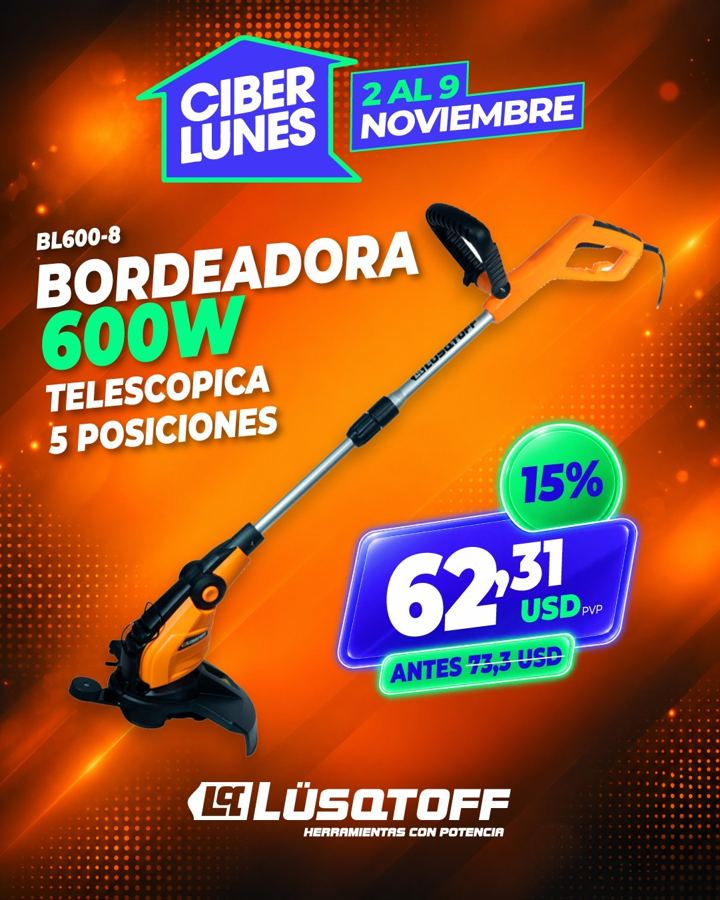
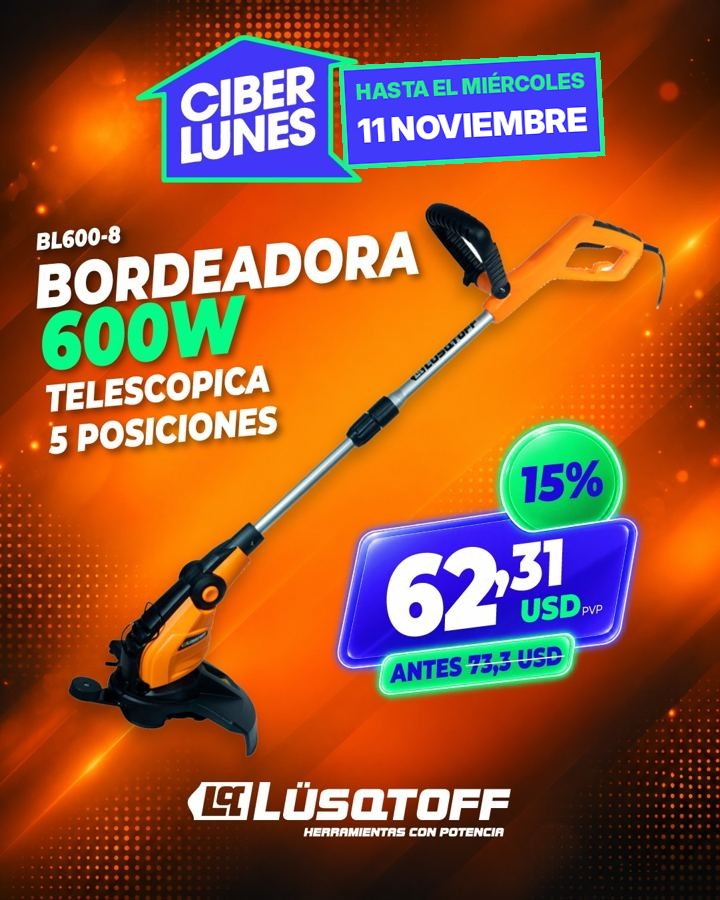
Martín Color: Renner promo first, top marquee, Cyber extended to 11/11
- Cyber INGCO y Lüsqtoff extended to Wednesday 11/11: section notice,
  price note, video caption, end-of-sale check (now 2026-11-12 -03:00)
  and the date badge printed on the 27 Lüsqtoff flyers.
- Red/black/white scrolling marquee at the top with four phrases.
- Hero now leads with the Renner promo (same products, prices and
  dates) and a large 'Consultá por WhatsApp' button; the 'Te
  asesoramos antes de venderte' block moves to the next section and
  the Cyber stays further down.
- Mobile: smaller logo, button within the first screen.

Claude-Session: https://claude.ai/code/session_01VkEHAkGzLkxmQojEp4HyZT

Changed region(s): [[0.4583, 0.0311, 0.8556, 0.1867]]

diff --git a/index.html b/index.html
@@ -256,8 +256,40 @@ footer.band{padding-block:56px 40px}
 .ft-all{grid-column:1/-1;justify-self:center;padding:13px 22px;font-size:14px}
 .ft-none{color:var(--tinta-suave)}
 @media (max-width:860px){.ft-grid{grid-template-columns:1fr}}
+
+/* Cinta corrida */
+.cinta-mc{background:var(--rojo);border-bottom:3px solid var(--negro);overflow:hidden;padding:12px 0}
+.cinta-in{display:flex;width:max-content;animation:mc-correr 40s linear infinite}
+.cinta-mc:hover .cinta-in{animation-play-state:paused}
+.cinta-mc span{display:inline-flex;align-items:center;gap:1.1em;padding-right:1.1em;font:700 clamp(14px,1.6vw,17px)/1.2 var(--f-texto);letter-spacing:.08em;color:#fff;white-space:nowrap}
+.cinta-mc i{display:inline-grid;place-items:center;width:26px;height:26px;border-radius:50%;background:var(--negro);color:#fff;flex:none}
+.cinta-mc i svg{width:14px;height:14px}
+@keyframes mc-correr{to{transform:translateX(-50%)}}
+@media (prefers-reduced-motion:reduce){.cinta-in{animation:none;flex-wrap:wrap;width:auto;justify-content:center;row-gap:8px}}
+
+/* Promo Renner en el encabezado */
+.hero-marca{margin-top:clamp(16px,2.5vw,28px);position:relative}
+#inicio{padding-top:clamp(20px,3vw,36px)}
+.hero-marca .hero-logo{margin-bottom:0}
+.hero-marca svg{width:min(100%,340px)}
+.promo{margin-top:clamp(20px,2.5vw,28px);align-items:start}
+.hero .vigencia{background:var(--banda-sup);border-color:var(--banda-linea);color:var(--banda-tinta)}
+.hero .vigencia i{background:var(--rojo)}
+.hero .pct div{background:var(--banda-sup);border:1px solid var(--banda-linea)}
+.btn-xl{margin-top:24px;padding:20px 30px;font-size:19px;border-radius:14px;box-shadow:0 10px 28px -10px rgba(14,122,109,.8)}
+.btn-xl svg{width:26px;height:26px}
+.promo-precios{background:var(--banda-sup);border:1px solid var(--banda-linea);border-radius:var(--r-l);padding:clamp(18px,3vw,28px);min-width:0}
+.hero .precios caption,.hero .precios small,.hero .nota{color:var(--banda-suave)}
+.hero .precios td{border-bottom-color:var(--banda-linea)}
+.pr-dest{color:var(--rojo);font-size:19px}
+.ases{display:grid;grid-template-columns:1.1fr .9fr;gap:clamp(28px,5vw,56px);align-items:center}
+.ases h2 em{font-style:normal;color:var(--accion)}
+.local-card{color:var(--banda-tinta)}
+@media (max-width:860px){.ases{grid-template-columns:1fr}}
+@media (max-width:560px){.hero{padding-top:20px}.hero-top{display:none}.hero-marca{margin-top:4px}.hero-marca svg{width:62%}.hero-marca .hero-logo{margin-bottom:8px}.btn-xl{width:100%;justify-content:center;padding:18px 20px;font-size:18px}}
 </style>
 
+<div class="cinta-mc" role="marquee" aria-label="Aprovechá hasta 40% de descuento en pinturas Renner · No te quedes con la duda: consultá · Te asesoramos antes de venderte · Cyber INGCO y Lüsqtoff: últimos días, hasta el miércoles 11/11"><div class="cinta-in" aria-hidden="true"><span>APROVECHÁ HASTA 40% DE DESCUENTO EN PINTURAS RENNER<i><svg viewBox="0 0 24 24" aria-hidden="true"><path fill="currentColor" d="M12 2.5s7 7.3 7 12.5a7 7 0 0 1-14 0c0-5.2 7-12.5 7-12.5z"/></svg></i></span><span>NO TE QUEDES CON LA DUDA: CONSULTÁ<i><svg viewBox="0 0 24 24" aria-hidden="true"><path fill="currentColor" d="M12 2.5s7 7.3 7 12.5a7 7 0 0 1-14 0c0-5.2 7-12.5 7-12.5z"/></svg></i></span><span>TE ASESORAMOS ANTES DE VENDERTE<i><svg viewBox="0 0 24 24" aria-hidden="true"><path fill="currentColor" d="M12 2.5s7 7.3 7 12.5a7 7 0 0 1-14 0c0-5.2 7-12.5 7-12.5z"/></svg></i></span><span>CYBER INGCO Y LÜSQTOFF: ÚLTIMOS DÍAS, HASTA EL MIÉRCOLES 11/11<i><svg viewBox="0 0 24 24" aria-hidden="true"><path fill="currentColor" d="M12 2.5s7 7.3 7 12.5a7 7 0 0 1-14 0c0-5.2 7-12.5 7-12.5z"/></svg></i></span><span>APROVECHÁ HASTA 40% DE DESCUENTO EN PINTURAS RENNER<i><svg viewBox="0 0 24 24" aria-hidden="true"><path fill="currentColor" d="M12 2.5s7 7.3 7 12.5a7 7 0 0 1-14 0c0-5.2 7-12.5 7-12.5z"/></svg></i></span><span>NO TE QUEDES CON LA DUDA: CONSULTÁ<i><svg viewBox="0 0 24 24" aria-hidden="true"><path fill="currentColor" d="M12 2.5s7 7.3 7 12.5a7 7 0 0 1-14 0c0-5.2 7-12.5 7-12.5z"/></svg></i></span><span>TE ASESORAMOS ANTES DE VENDERTE<i><svg viewBox="0 0 24 24" aria-hidden="true"><path fill="currentColor" d="M12 2.5s7 7.3 7 12.5a7 7 0 0 1-14 0c0-5.2 7-12.5 7-12.5z"/></svg></i></span><span>CYBER INGCO Y LÜSQTOFF: ÚLTIMOS DÍAS, HASTA EL MIÉRCOLES 11/11<i><svg viewBox="0 0 24 24" aria-hidden="true"><path fill="currentColor" d="M12 2.5s7 7.3 7 12.5a7 7 0 0 1-14 0c0-5.2 7-12.5 7-12.5z"/></svg></i></span></div></div>
 <header class="band hero" id="inicio">
   <div class="tex" aria-hidden="true"></div>
   <div class="wrap">
@@ -273,26 +305,38 @@ footer.band{padding-block:56px 40px}
         <a href="https://www.instagram.com/martincolor.ok/" target="_blank" rel="noopener">Instagram</a>
       </nav>
     </div>
-    <div class="hero-grid">
-      <div class="rv">
+    <div class="hero-marca rv">
         <div class="hero-logo"><svg width="100%" style="display:block;height:auto" xmlns="http://www.w3.org/2000/svg" viewBox="396 196 1212 684" role="img" aria-label="Martín Color"><path fill="#FC2803" d="M 1044.195312 326.113281 L 1070.238281 326.113281 C 1084.621094 326.113281 1096.277344 337.773438 1096.277344 352.15625 L 1096.277344 695.3125 C 1096.277344 709.695312 1084.621094 721.351562 1070.238281 721.351562 L 1050.289062 721.351562 C 1023.621094 721.351562 1001.777344 700.15625 1000.976562 673.5 L 992.113281 378.097656 C 992.113281 349.484375 1015.613281 326.113281 1044.195312 326.113281 M 1096.277344 233.59375 L 1096.277344 285.683594 C 1096.277344 300.066406 1084.621094 311.722656 1070.238281 311.722656 L 995.097656 311.722656 C 989.132812 311.722656 983.761719 315.347656 981.53125 320.882812 L 832.609375 690.46875 C 825.089844 709.132812 806.988281 721.351562 786.871094 721.351562 L 713.4375 721.351562 C 693.183594 721.351562 674.964844 709.050781 667.398438 690.265625 L 650.753906 648.953125 C 643.859375 631.839844 656.457031 613.179688 674.90625 613.179688 L 734.3125 613.179688 C 744.9375 613.179688 754.496094 606.726562 758.46875 596.871094 L 882.304688 289.523438 C 902.671875 238.988281 949.230469 207.554688 1003.714844 207.554688 L 1070.238281 207.554688 C 1084.621094 207.554688 1096.277344 219.210938 1096.277344 233.59375 M 507.972656 404.238281 L 507.972656 672.195312 C 507.972656 699.34375 485.964844 721.351562 458.8125 721.351562 L 452.96875 721.351562 C 425.820312 721.351562 403.808594 699.34375 403.808594 672.195312 L 403.808594 352.15625 C 403.808594 337.773438 415.46875 326.113281 429.851562 326.113281 C 472.816406 326.113281 507.972656 361.269531 507.972656 404.238281 M 669.390625 598.773438 L 648.125 598.773438 C 637.5 598.773438 627.941406 592.320312 623.96875 582.464844 L 521.449219 328.019531 C 517.476562 318.167969 507.917969 311.710938 497.292969 311.710938 L 429.851562 311.710938 C 415.46875 311.710938 403.808594 300.050781 403.808594 285.671875 L 403.808594 256.714844 C 403.808594 229.5625 425.820312 207.554688 452.96875 207.554688 L 496.371094 207.554688 C 550.859375 207.554688 597.425781 238.988281 617.785156 289.519531 L 715.253906 531.425781 C 721.515625 546.953125 721.246094 567.1875 711.894531 581.027344 C 702.476562 594.964844 686.207031 598.78125 669.390625 598.773438 "></path><path fill="#FC2803" d="M 1113.308594 617.183594 L 1515.269531 617.183594 C 1515.777344 617.183594 1516.191406 617.597656 1516.191406 618.105469 L 1516.191406 659.585938 C 1516.191406 693.699219 1488.535156 721.351562 1454.421875 721.351562 L 1049.558594 721.351562 C 1049.050781 721.351562 1048.636719 720.941406 1048.636719 720.429688 L 1048.636719 669.265625 C 1048.636719 640.621094 1077.726562 617.183594 1113.308594 617.183594 M 1515.640625 265.84375 L 1515.640625 310.800781 C 1515.640625 311.308594 1515.199219 311.722656 1514.65625 311.722656 L 993.097656 311.722656 C 992.554688 311.722656 992.113281 311.308594 992.113281 310.800781 L 992.113281 290.53125 C 992.113281 244.894531 1031.894531 207.554688 1080.515625 207.554688 L 1453.539062 207.554688 C 1487.835938 207.554688 1515.640625 233.652344 1515.640625 265.84375 "></path><path fill="#F0E7D8" d="M 511 806.460938 L 519.695312 806.460938 L 519.695312 872.445312 L 504.023438 872.445312 L 502.304688 815.136719 C 502.304688 810.359375 506.226562 806.460938 511 806.460938 M 519.695312 786.664062 L 519.695312 804.054688 L 501.15625 804.054688 L 473.597656 872.445312 L 450.183594 872.445312 L 442.90625 854.386719 L 462.199219 854.386719 L 483.972656 800.351562 C 487.371094 791.914062 495.144531 786.664062 504.242188 786.664062 Z M 421.476562 815.15625 L 421.476562 872.445312 L 404.085938 872.445312 L 404.085938 806.460938 L 412.78125 806.460938 C 417.5625 806.460938 421.476562 810.371094 421.476562 815.15625 M 448.425781 851.980469 L 441.941406 851.980469 L 422.628906 804.054688 L 404.085938 804.054688 L 404.085938 786.664062 L 419.539062 786.664062 C 428.636719 786.664062 436.410156 791.914062 439.808594 800.351562 L 456.082031 840.738281 C 457.128906 843.328125 456.808594 846.046875 455.246094 848.355469 C 453.671875 850.683594 451.234375 851.980469 448.425781 851.980469 "></path><path fill="#F0E7D8" d="M 581.351562 804.722656 L 558.691406 804.722656 L 565.964844 786.664062 L 592.753906 786.664062 L 613.335938 837.753906 L 605.96875 837.753906 C 599 837.753906 593.042969 833.730469 590.4375 827.269531 Z M 627.316406 872.445312 L 608.640625 872.445312 L 602.636719 857.550781 L 558.671875 857.550781 L 562.3125 848.511719 C 562.324219 848.488281 562.332031 848.464844 562.339844 848.4375 C 564.433594 843.328125 569.164062 840.15625 574.683594 840.15625 L 614.304688 840.160156 Z M 571.867188 818.378906 L 550.078125 872.445312 L 531.402344 872.445312 L 557.722656 807.128906 L 564.207031 807.128906 C 567.015625 807.128906 569.457031 808.425781 571.03125 810.753906 C 572.589844 813.066406 572.910156 815.78125 571.867188 818.378906 "></path><path fill="#F0E7D8" d="M 724.921875 872.445312 L 706.246094 872.445312 L 697.96875 851.898438 C 696.925781 849.308594 697.246094 846.589844 698.804688 844.277344 C 700.378906 841.953125 702.820312 840.652344 705.628906 840.652344 L 712.113281 840.652344 Z M 656.261719 815.15625 L 656.261719 872.445312 L 638.871094 872.445312 L 638.871094 806.460938 L 647.566406 806.460938 C 652.347656 806.460938 656.257812 810.371094 656.261719 815.15625 M 707.261719 820.859375 L 707.261719 804.058594 L 638.871094 804.058594 L 638.871094 786.664062 L 710.949219 786.664062 C 718.476562 786.664062 724.652344 792.839844 724.652344 800.363281 L 724.652344 824.550781 C 724.652344 832.074219 718.476562 838.25 710.949219 838.25 L 658.664062 838.25 L 658.664062 829.554688 C 658.664062 824.773438 662.574219 820.859375 667.359375 820.859375 Z M 707.261719 820.859375 "></path><path fill="#F0E7D8" d="M 786.160156 815.15625 L 786.160156 872.445312 L 768.769531 872.445312 L 768.769531 806.457031 L 777.464844 806.457031 C 782.246094 806.457031 786.160156 810.371094 786.160156 815.15625 M 734.570312 786.664062 L 820.355469 786.664062 L 820.355469 804.054688 L 734.570312 804.054688 Z M 734.570312 786.664062 "></path><path fill="#F0E7D8" d="M 831.992188 806.460938 L 849.382812 806.460938 L 849.382812 872.445312 L 831.992188 872.445312 Z M 849.382812 786.664062 L 849.382812 795.359375 C 849.382812 800.144531 845.46875 804.058594 840.6875 804.058594 L 831.992188 804.058594 L 831.992188 786.664062 Z M 849.382812 786.664062 "></path><path fill="#F0E7D8" d="M 953.578125 786.664062 L 953.578125 852.652344 L 944.882812 852.652344 C 940.097656 852.652344 936.1875 848.738281 936.1875 843.957031 L 936.1875 786.664062 Z M 930.164062 855.054688 L 953.578125 855.054688 L 953.578125 872.445312 L 933.253906 872.445312 C 924.15625 872.445312 916.382812 867.195312 912.984375 858.761719 L 890.941406 804.054688 L 867.527344 804.054688 L 867.527344 786.664062 L 887.851562 786.664062 C 896.949219 786.664062 904.722656 791.914062 908.121094 800.351562 Z M 884.917969 815.15625 L 884.917969 872.445312 L 867.527344 872.445312 L 867.527344 806.460938 L 876.222656 806.460938 C 881.003906 806.460938 884.917969 810.371094 884.917969 815.15625 "></path><path fill="#F0E7D8" d="M 1053.234375 855.054688 L 1110.527344 855.054688 L 1110.527344 872.445312 L 1044.542969 872.445312 L 1044.542969 863.75 C 1044.542969 858.96875 1048.453125 855.054688 1053.234375 855.054688 M 1042.136719 815.128906 L 1042.136719 872.445312 L 1038.445312 872.445312 C 1030.921875 872.445312 1024.746094 866.269531 1024.746094 858.746094 L 1024.746094 806.460938 L 1033.441406 806.460938 C 1038.210938 806.460938 1042.136719 810.351562 1042.136719 815.128906 M 1110.527344 786.664062 L 1110.527344 804.054688 L 1024.746094 804.054688 L 1024.746094 800.363281 C 1024.746094 792.839844 1030.921875 786.664062 1038.445312 786.664062 Z M 1110.527344 786.664062 "></path><path fill="#F0E7D8" d="M 1142.007812 855.054688 L 1210.394531 855.054688 L 1210.394531 858.746094 C 1210.394531 866.269531 1204.21875 872.445312 1196.695312 872.445312 L 1138.3125 872.445312 C 1130.789062 872.445312 1124.613281 866.269531 1124.613281 858.746094 L 1124.613281 806.460938 L 1133.308594 806.460938 C 1138.09375 806.460938 1142.007812 810.371094 1142.007812 815.15625 Z M 1210.394531 800.363281 L 1210.394531 852.652344 L 1201.699219 852.652344 C 1196.917969 852.652344 1193.007812 848.738281 1193.007812 843.953125 L 1193.007812 804.054688 L 1124.613281 804.054688 L 1124.613281 800.363281 C 1124.613281 792.839844 1130.789062 786.664062 1138.3125 786.664062 L 1196.695312 786.664062 C 1204.21875 786.664062 1210.394531 792.839844 1210.394531 800.363281 "></path><path fill="#F0E7D8" d="M 1314.800781 855.054688 L 1314.800781 872.445312 L 1248.8125 872.445312 L 1248.8125 863.75 C 1248.8125 858.96875 1252.726562 855.054688 1257.507812 855.054688 Z M 1229.019531 786.664062 L 1246.410156 786.664062 L 1246.410156 872.445312 L 1229.019531 872.445312 Z M 1229.019531 786.664062 "></path><path fill="#F0E7D8" d="M 1343.707031 855.054688 L 1412.09375 855.054688 L 1412.09375 858.746094 C 1412.09375 866.269531 1405.917969 872.445312 1398.398438 872.445312 L 1340.015625 872.445312 C 1332.492188 872.445312 1326.316406 866.269531 1326.316406 858.746094 L 1326.316406 806.460938 L 1335.007812 806.460938 C 1339.792969 806.460938 1343.707031 810.371094 1343.707031 815.15625 Z M 1412.09375 800.363281 L 1412.09375 852.652344 L 1403.402344 852.652344 C 1398.617188 852.652344 1394.707031 848.738281 1394.707031 843.953125 L 1394.707031 804.054688 L 1326.316406 804.054688 L 1326.316406 800.363281 C 1326.316406 792.839844 1332.492188 786.664062 1340.015625 786.664062 L 1398.398438 786.664062 C 1405.917969 786.664062 1412.09375 792.839844 1412.09375 800.363281 "></path><path fill="#F0E7D8" d="M 1515.914062 872.445312 L 1497.238281 872.445312 L 1488.960938 851.898438 C 1487.914062 849.308594 1488.238281 846.589844 1489.796875 844.277344 C 1491.371094 841.953125 1493.8125 840.652344 1496.617188 840.652344 L 1503.105469 840.652344 Z M 1447.253906 815.15625 L 1447.253906 872.445312 L 1429.863281 872.445312 L 1429.863281 806.460938 L 1438.558594 806.460938 C 1443.339844 806.460938 1447.25 810.371094 1447.253906 815.15625 M 1498.25 820.859375 L 1498.25 804.058594 L 1429.863281 804.058594 L 1429.863281 786.664062 L 1501.941406 786.664062 C 1509.46875 786.664062 1515.644531 792.839844 1515.644531 800.363281 L 1515.644531 824.550781 C 1515.644531 832.074219 1509.46875 838.25 1501.941406 838.25 L 1449.65625 838.25 L 1449.65625 829.554688 C 1449.65625 824.773438 1453.566406 820.859375 1458.351562 820.859375 Z M 1498.25 820.859375 "></path><circle cx="1566" cy="236" r="30.5" fill="none" stroke="#FC2803" stroke-width="7.0"></circle><path fill="#FC2803" d="M1555.0 219.0h12.0a9.0 9.0 0 0 1 0 18.0h-6.0v16.0h-6.0zM1561.0 224.0v8.0h6.0a4.0 4.0 0 0 0 0 -8.0z"></path><path fill="#FC2803" d="M1564.0 236.0h7.0l8.0 17.0h-7.0z"></path></svg></div>
-        <p class="eyebrow">Pinturas y herramientas · Colonia del Sacramento</p>
-        <h1 style="margin-top:16px">Te asesoramos <em>antes</em> de venderte.</h1>
-        <p class="lead">Contanos qué vas a pintar o qué trabajo tenés por delante. Te decimos qué producto conviene, cuánto necesitás y cómo aplicarlo. La confianza es fundamental.</p>
-        <div class="hero-ctas">
-          <a class="btn btn-wa" href="https://wa.me/59891333337?text=Hola%20Mart%C3%ADn%20Color%2C%20quer%C3%ADa%20consultar%20por%20" target="_blank" rel="noopener"><svg viewBox="0 0 24 24" fill="currentColor" aria-hidden="true"><path d="M12 2.5a9.4 9.4 0 0 0-8.1 14.2L2.6 21.5l4.9-1.3A9.4 9.4 0 1 0 12 2.5zm0 17.2a7.8 7.8 0 0 1-4-1.1l-.3-.2-2.9.8.8-2.8-.2-.3A7.8 7.8 0 1 1 12 19.7zm4.3-5.8c-.2-.1-1.4-.7-1.6-.8-.2-.1-.4-.1-.5.1l-.7.9c-.1.2-.3.2-.5.1a6.4 6.4 0 0 1-3.2-2.8c-.2-.4.2-.4.7-1.3.1-.2 0-.3 0-.4l-.7-1.7c-.2-.4-.4-.4-.5-.4h-.5a.9.9 0 0 0-.7.3 2.8 2.8 0 0 0-.9 2.1 4.9 4.9 0 0 0 1 2.6 11.2 11.2 0 0 0 4.3 3.8c1.6.7 2.2.7 3 .6a2.6 2.6 0 0 0 1.7-1.2 2.1 2.1 0 0 0 .1-1.2c0-.1-.2-.2-.4-.3z"/></svg> Escribinos al 091 333 337</a>
-          <a class="btn btn-sec" href="#renner">Ver promos de la semana</a>
+    </div>
+    <div class="hero-grid promo" id="renner">
+    <div class="rv">
+        <p class="eyebrow">Promo Renner · Pinturas</p>
+        <h1 style="margin-top:14px">Pintá la casa <em>antes</em> del verano.</h1>
+        <p class="lead" style="margin-top:14px">Descuentos en toda la línea Rekolor y en los esmaltes Renner, en todos los colores.</p>
+        <span class="vigencia"><i></i>Vigente hasta el 20 de diciembre de 2026</span>
+        <a class="btn btn-wa btn-xl" href="https://wa.me/59891333337?text=Hola%20Mart%C3%ADn%20Color%2C%20quer%C3%ADa%20consultar%20por%20la%20promo%20de%20pinturas%20Renner" target="_blank" rel="noopener"><svg viewBox="0 0 24 24" fill="currentColor" aria-hidden="true"><path d="M12 2.5a9.4 9.4 0 0 0-8.1 14.2L2.6 21.5l4.9-1.3A9.4 9.4 0 1 0 12 2.5zm0 17.2a7.8 7.8 0 0 1-4-1.1l-.3-.2-2.9.8.8-2.8-.2-.3A7.8 7.8 0 1 1 12 19.7zm4.3-5.8c-.2-.1-1.4-.7-1.6-.8-.2-.1-.4-.1-.5.1l-.7.9c-.1.2-.3.2-.5.1a6.4 6.4 0 0 1-3.2-2.8c-.2-.4.2-.4.7-1.3.1-.2 0-.3 0-.4l-.7-1.7c-.2-.4-.4-.4-.5-.4h-.5a.9.9 0 0 0-.7.3 2.8 2.8 0 0 0-.9 2.1 4.9 4.9 0 0 0 1 2.6 11.2 11.2 0 0 0 4.3 3.8c1.6.7 2.2.7 3 .6a2.6 2.6 0 0 0 1.7-1.2 2.1 2.1 0 0 0 .1-1.2c0-.1-.2-.2-.4-.3z"/></svg> Consultá por WhatsApp</a>
+        <div class="pct">
+          <div><b>40%</b><span>Rekolor Gold</span></div>
+          <div><b>30%</b><span>Rekolor Pro</span></div>
+          <div><b>25%</b><span>Rekolor Unique</span></div>
+          <div><b>25%</b><span>Esmaltes Renner</span></div>
         </div>
       </div>
-      <aside class="hero-card rv" aria-label="Lo que encontrás en Martín Color">
-        <h3>En el local de Atanasio Sierra 602</h3>
-        <ul>
-          <li><svg class="ico" viewBox="0 0 24 24" fill="none" stroke="currentColor" stroke-width="1.8" stroke-linecap="round" stroke-linejoin="round" aria-hidden="true"><rect x="3" y="3" width="15" height="7" rx="1.5"/><path d="M18 6.5h2.5V12H11v3"/><rect x="9.5" y="15" width="3" height="6" rx="1"/></svg><div><b>Pinturas Renner, Glidden y Comex</b><span>Látex, esmaltes, membranas, piscinas y fachadas.</span></div></li>
-          <li><svg class="ico" viewBox="0 0 24 24" fill="none" stroke="currentColor" stroke-width="1.8" stroke-linecap="round" stroke-linejoin="round" aria-hidden="true"><path d="M12 3s6 6.4 6 11a6 6 0 0 1-12 0c0-4.6 6-11 6-11z"/><path d="M9.5 15a2.5 2.5 0 0 0 2.5 2.5"/></svg><div><b>Colores a medida</b><span>Preparamos tu color en la máquina tintométrica.</span></div></li>
-          <li><svg class="ico" viewBox="0 0 24 24" fill="none" stroke="currentColor" stroke-width="1.8" stroke-linecap="round" stroke-linejoin="round" aria-hidden="true"><path d="M3 15l2-5.5A2 2 0 0 1 6.9 8h10.2a2 2 0 0 1 1.9 1.5L21 15v3h-2.5"/><path d="M5.5 18H3v-3h18"/><circle cx="7.5" cy="18" r="1.8"/><circle cx="16.5" cy="18" r="1.8"/></svg><div><b>Línea automotriz PPG</b><span>Fondos, barnices y masillas para talleres de chapa y pintura.</span></div></li>
-          <li><svg class="ico" viewBox="0 0 24 24" fill="none" stroke="currentColor" stroke-width="1.8" stroke-linecap="round" stroke-linejoin="round" aria-hidden="true"><path d="M14.7 6.3a4 4 0 0 0 5 5l-9.4 9.4a2.1 2.1 0 0 1-3-3z"/><path d="M14.7 6.3L17 4l3 3-2.3 2.3"/></svg><div><b>Herramientas INGCO, Lüsqtoff y Wadfow</b><span>Con garantía oficial de 1 a 3 años.</span></div></li>
-        </ul>
-      </aside>
+      <div class="promo-precios rv">
+      <table class="precios">
+        <caption>Precios de la promo, en pesos</caption>
+        <tbody>
+          <tr class="dest"><td>Membrana líquida Renner 20 kg<small>llevá 2 y ahorrás</small></td><td><span class="pr-dest">2x1 $6.990</span><small>1 unidad $3.990</small></td></tr>
+          <tr><td>Fondo preparador base agua 16 L</td><td>$4.801</td></tr>
+          <tr><td>Cielo raso Renner 18 L</td><td>$3.990</td></tr>
+          <tr><td>Látex ACR mate blanco 16 L</td><td>$2.650</td></tr>
+          <tr><td>Cielo raso Glidden 18 L<small>línea económica</small></td><td>$1.850</td></tr>
+          <tr><td>Esmalte sintético blanco brillante 900 ml</td><td>$399</td></tr>
+          <tr class="dest"><td>Esmalte poliuretano para piscinas<small>consultá precio y rendimiento según los m²</small></td><td><span class="pr-dest">25% OFF</span></td></tr>
+        </tbody>
+      </table>
+      <p class="nota">Precios con IVA, válidos hasta el 20/12/2026 o hasta agotar stock. Para Rekolor y esmaltes, el precio final depende de la medida y el color.</p>
+      </div>
     </div>
     <div class="marcas rv" aria-label="Marcas que vendemos">
       <span>Trabajamos con</span>
@@ -304,47 +348,29 @@ footer.band{padding-block:56px 40px}
 <main>
 <section id="asesoramiento">
   <div class="wrap">
-    <div class="head rv">
-      <p class="eyebrow">Por qué Martín Color</p>
-      <h2>Comprás lo justo, del producto correcto.</h2>
-      <p class="lead">Una pintura bien elegida rinde más y dura más. Antes de cobrarte, te ayudamos a acertar.</p>
+    <div class="ases">
+      <div class="head rv" style="margin:0">
+        <p class="eyebrow">Por qué Martín Color</p>
+        <h2>Te asesoramos <em>antes</em> de venderte.</h2>
+        <p class="lead">Contanos qué vas a pintar o qué trabajo tenés por delante. Te decimos qué producto conviene, cuánto necesitás y cómo aplicarlo. La confianza es fundamental.</p>
+        <div class="hero-ctas" style="margin-top:12px">
+          <a class="btn btn-wa" href="https://wa.me/59891333337?text=Hola%20Mart%C3%ADn%20Color%2C%20quer%C3%ADa%20consultar%20por%20" target="_blank" rel="noopener"><svg viewBox="0 0 24 24" fill="currentColor" aria-hidden="true"><path d="M12 2.5a9.4 9.4 0 0 0-8.1 14.2L2.6 21.5l4.9-1.3A9.4 9.4 0 1 0 12 2.5zm0 17.2a7.8 7.8 0 0 1-4-1.1l-.3-.2-2.9.8.8-2.8-.2-.3A7.8 7.8 0 1 1 12 19.7zm4.3-5.8c-.2-.1-1.4-.7-1.6-.8-.2-.1-.4-.1-.5.1l-.7.9c-.1.2-.3.2-.5.1a6.4 6.4 0 0 1-3.2-2.8c-.2-.4.2-.4.7-1.3.1-.2 0-.3 0-.4l-.7-1.7c-.2-.4-.4-.4-.5-.4h-.5a.9.9 0 0 0-.7.3 2.8 2.8 0 0 0-.9 2.1 4.9 4.9 0 0 0 1 2.6 11.2 11.2 0 0 0 4.3 3.8c1.6.7 2.2.7 3 .6a2.6 2.6 0 0 0 1.7-1.2 2.1 2.1 0 0 0 .1-1.2c0-.1-.2-.2-.4-.3z"/></svg> Escribinos al 091 333 337</a>
+        </div>
+      </div>
+      <aside class="hero-card local-card rv" aria-label="Lo que encontrás en Martín Color">
+        <h3>En el local de Atanasio Sierra 602</h3>
+        <ul>
+          <li><svg class="ico" viewBox="0 0 24 24" fill="none" stroke="currentColor" stroke-width="1.8" stroke-linecap="round" stroke-linejoin="round" aria-hidden="true"><rect x="3" y="3" width="15" height="7" rx="1.5"/><path d="M18 6.5h2.5V12H11v3"/><rect x="9.5" y="15" width="3" height="6" rx="1"/></svg><div><b>Pinturas Renner, Glidden y Comex</b><span>Látex, esmaltes, membranas, piscinas y fachadas.</span></div></li>
+          <li><svg class="ico" viewBox="0 0 24 24" fill="none" stroke="currentColor" stroke-width="1.8" stroke-linecap="round" stroke-linejoin="round" aria-hidden="true"><path d="M12 3s6 6.4 6 11a6 6 0 0 1-12 0c0-4.6 6-11 6-11z"/><path d="M9.5 15a2.5 2.5 0 0 0 2.5 2.5"/></svg><div><b>Colores a medida</b><span>Preparamos tu color en la máquina tintométrica.</span></div></li>
+          <li><svg class="ico" viewBox="0 0 24 24" fill="none" stroke="currentColor" stroke-width="1.8" stroke-linecap="round" stroke-linejoin="round" aria-hidden="true"><path d="M3 15l2-5.5A2 2 0 0 1 6.9 8h10.2a2 2 0 0 1 1.9 1.5L21 15v3h-2.5"/><path d="M5.5 18H3v-3h18"/><circle cx="7.5" cy="18" r="1.8"/><circle cx="16.5" cy="18" r="1.8"/></svg><div><b>Línea automotriz PPG</b><span>Fondos, barnices y masillas para talleres de chapa y pintura.</span></div></li>
+          <li><svg class="ico" viewBox="0 0 24 24" fill="none" stroke="currentColor" stroke-width="1.8" stroke-linecap="round" stroke-linejoin="round" aria-hidden="true"><path d="M14.7 6.3a4 4 0 0 0 5 5l-9.4 9.4a2.1 2.1 0 0 1-3-3z"/><path d="M14.7 6.3L17 4l3 3-2.3 2.3"/></svg><div><b>Herramientas INGCO, Lüsqtoff y Wadfow</b><span>Con garantía oficial de 1 a 3 años.</span></div></li>
+        </ul>
+      </aside>
     </div>
-    <div class="bene">
+    <div class="bene" style="margin-top:40px">
       <article class="rv"><svg class="ico" viewBox="0 0 24 24" fill="none" stroke="currentColor" stroke-width="1.8" stroke-linecap="round" stroke-linejoin="round" aria-hidden="true"><path d="M4 5h16v11H9l-5 4z"/><path d="M8 9.5h8M8 12.5h5"/></svg><h3>Asesoramiento antes de la compra</h3><p>Te preguntamos la superficie, el estado y el uso. Con los metros te calculamos litros y manos, sin que sobre ni falte.</p></article>
       <article class="rv"><svg class="ico" viewBox="0 0 24 24" fill="none" stroke="currentColor" stroke-width="1.8" stroke-linecap="round" stroke-linejoin="round" aria-hidden="true"><path d="M12 3l8 3v6c0 4.5-3.4 8-8 9-4.6-1-8-4.5-8-9V6z"/><path d="M8.5 12l2.5 2.5 4.5-5"/></svg><h3>Marcas con garantía</h3><p>Renner y PPG en pinturas. INGCO 2 años, Lüsqtoff Black Series 3 años y Wadfow 1 año en herramientas.</p></article>
       <article class="rv"><svg class="ico" viewBox="0 0 24 24" fill="none" stroke="currentColor" stroke-width="1.8" stroke-linecap="round" stroke-linejoin="round" aria-hidden="true"><rect x="3" y="5.5" width="18" height="13" rx="2"/><path d="M3 10h18M7 14.5h4"/></svg><h3>Hasta 6 cuotas sin recargo</h3><p>Pagando en el local con OCA o Visa. También giro, transferencia y envíos a todo el país.</p></article>
-    </div>
-  </div>
-</section>
-
-<section id="renner" style="padding-top:0">
-  <div class="wrap renner">
-    <div class="rv">
-      <p class="eyebrow">Promo Renner</p>
-      <h2 style="margin-top:14px">Pintá la casa antes del verano.</h2>
-      <p class="lead" style="margin-top:14px">Descuentos en toda la línea Rekolor y en los esmaltes Renner, en todos los colores.</p>
-      <span class="vigencia"><i></i>Vigente hasta el 20 de diciembre de 2026</span>
-      <div class="pct">
-        <div><b>40%</b><span>Rekolor Gold</span></div>
-        <div><b>30%</b><span>Rekolor Pro</span></div>
-        <div><b>25%</b><span>Rekolor Unique</span></div>
-        <div><b>25%</b><span>Esmaltes Renner</span></div>
-      </div>
-    </div>
-    <div class="rv" style="min-width:0">
-      <table class="precios">
-        <caption>Precios de la promo, en pesos</caption>
-        <tbody>
-          <tr class="dest"><td>Membrana líquida Renner 20 kg<small>llevá 2 y ahorrás</small></td><td><span style="color:var(--acento,#d42200);font-size:19px">2x1 $6.990</span><small>1 unidad $3.990</small></td></tr>
-          <tr><td>Fondo preparador base agua 16 L</td><td>$4.801</td></tr>
-          <tr><td>Cielo raso Renner 18 L</td><td>$3.990</td></tr>
-          <tr><td>Látex ACR mate blanco 16 L</td><td>$2.650</td></tr>
-          <tr><td>Cielo raso Glidden 18 L<small>línea económica</small></td><td>$1.850</td></tr>
-          <tr><td>Esmalte sintético blanco brillante 900 ml</td><td>$399</td></tr>
-          <tr class="dest"><td>Esmalte poliuretano para piscinas<small>consultá precio y rendimiento según los m²</small></td><td><span style="color:var(--acento,#d42200);font-size:19px">25% OFF</span></td></tr>
-        </tbody>
-      </table>
-      <p class="nota">Precios con IVA, válidos hasta el 20/12/2026 o hasta agotar stock. Para Rekolor y esmaltes, el precio final depende de la medida y el color.</p>
     </div>
   </div>
 </section>
@@ -353,10 +379,10 @@ footer.band{padding-block:56px 40px}
   <div class="wrap">
     <div class="cyber-head">
       <div class="head rv" style="margin:0">
-        <p class="eyebrow">Cyber de herramientas</p>
+        <p class="eyebrow">Cyber de herramientas · Últimos días</p>
         <h2>Catálogo Cyber: 68 ofertas en herramientas.</h2>
       </div>
-      <p class="cuenta rv" id="cuenta">Del 2 al <b>9 de noviembre</b> de 2026</p>
+      <p class="cuenta rv" id="cuenta">INGCO y Lüsqtoff: últimos días, <b>hasta el miércoles 11/11</b></p>
     </div>
     <div class="marcas-cyber">
       <article class="mc-card rv"><span class="off">15–25%</span><h3>Lüsqtoff Línea Negra</h3><p>Más de 40 herramientas. Black Series con 3 años de garantía.</p></article>
@@ -371,7 +397,7 @@ footer.band{padding-block:56px 40px}
     </div>
     <div class="cat" id="cat"></div>
     <dialog id="zoom" aria-label="Flyer ampliado"><button type="button" class="z-x" id="zx" aria-label="Cerrar">✕</button><img id="zimg" alt=""><a class="btn btn-wa" id="zwa" target="_blank" rel="noopener"><svg viewBox="0 0 24 24" fill="currentColor" aria-hidden="true"><path d="M12 2.5a9.4 9.4 0 0 0-8.1 14.2L2.6 21.5l4.9-1.3A9.4 9.4 0 1 0 12 2.5zm0 17.2a7.8 7.8 0 0 1-4-1.1l-.3-.2-2.9.8.8-2.8-.2-.3A7.8 7.8 0 1 1 12 19.7zm4.3-5.8c-.2-.1-1.4-.7-1.6-.8-.2-.1-.4-.1-.5.1l-.7.9c-.1.2-.3.2-.5.1a6.4 6.4 0 0 1-3.2-2.8c-.2-.4.2-.4.7-1.3.1-.2 0-.3 0-.4l-.7-1.7c-.2-.4-.4-.4-.5-.4h-.5a.9.9 0 0 0-.7.3 2.8 2.8 0 0 0-.9 2.1 4.9 4.9 0 0 0 1 2.6 11.2 11.2 0 0 0 4.3 3.8c1.6.7 2.2.7 3 .6a2.6 2.6 0 0 0 1.7-1.2 2.1 2.1 0 0 0 .1-1.2c0-.1-.2-.2-.4-.3z"/></svg> Consultar por WhatsApp</a></dialog>
-    <p class="cuotas rv">Precios en dólares. En el local, hasta 6 cuotas sin recargo con OCA o Visa. Tocá un flyer para verlo grande. Precios en dólares, IVA incluido, válidos hasta el 9/11 o hasta agotar stock.</p>
+    <p class="cuotas rv">Precios en dólares. En el local, hasta 6 cuotas sin recargo con OCA o Visa. Tocá un flyer para verlo grande. Precios en dólares, IVA incluido, válidos hasta el miércoles 11/11 o hasta agotar stock.</p>
   </div>
 </section>
 
@@ -383,7 +409,7 @@ footer.band{padding-block:56px 40px}
       <p class="lead">Videos de los productos que tenemos en el local, filmados en Martín Color. Hay muchos más en nuestro Instagram.</p>
     </div>
     <div class="vids">
-      <figure class="rv v-h"><video controls preload="metadata" playsinline poster="videos/lusq.jpg" src="videos/lusq.mp4"></video><figcaption><b>Cyber Lüsqtoff Línea Negra</b>Del 2 al 9 de noviembre, de 15% a 25% off.</figcaption></figure>
+      <figure class="rv v-h"><video controls preload="metadata" playsinline poster="videos/lusq.jpg" src="videos/lusq.mp4"></video><figcaption><b>Cyber Lüsqtoff Línea Negra</b>Hasta el miércoles 11/11, de 15% a 25% off.</figcaption></figure>
       <figure class="rv v-v"><video controls preload="metadata" playsinline poster="videos/yeso.jpg" src="videos/yeso.mp4"></video><figcaption><b>Atornillador para yeso a batería INGCO</b>Carga automática de tornillos, 20 V.</figcaption></figure>
         </div>
     <div class="oferta rv">
@@ -514,7 +540,7 @@ document.getElementById('zx').addEventListener('click', () => zoom.close ? zoom.
 zoom.addEventListener('click', (e) => { if (e.target === zoom) zoom.close(); });
 
 // Si el Cyber ya terminó, se avisa en vez de mostrar fechas vencidas.
-const fin = new Date('2026-11-10T00:00:00-03:00');
+const fin = new Date('2026-11-12T00:00:00-03:00');
 if (Date.now() >= fin.getTime()) {
   document.getElementById('cuenta').innerHTML = 'El Cyber terminó. <b>Preguntanos</b> por las ofertas vigentes.';
 }
